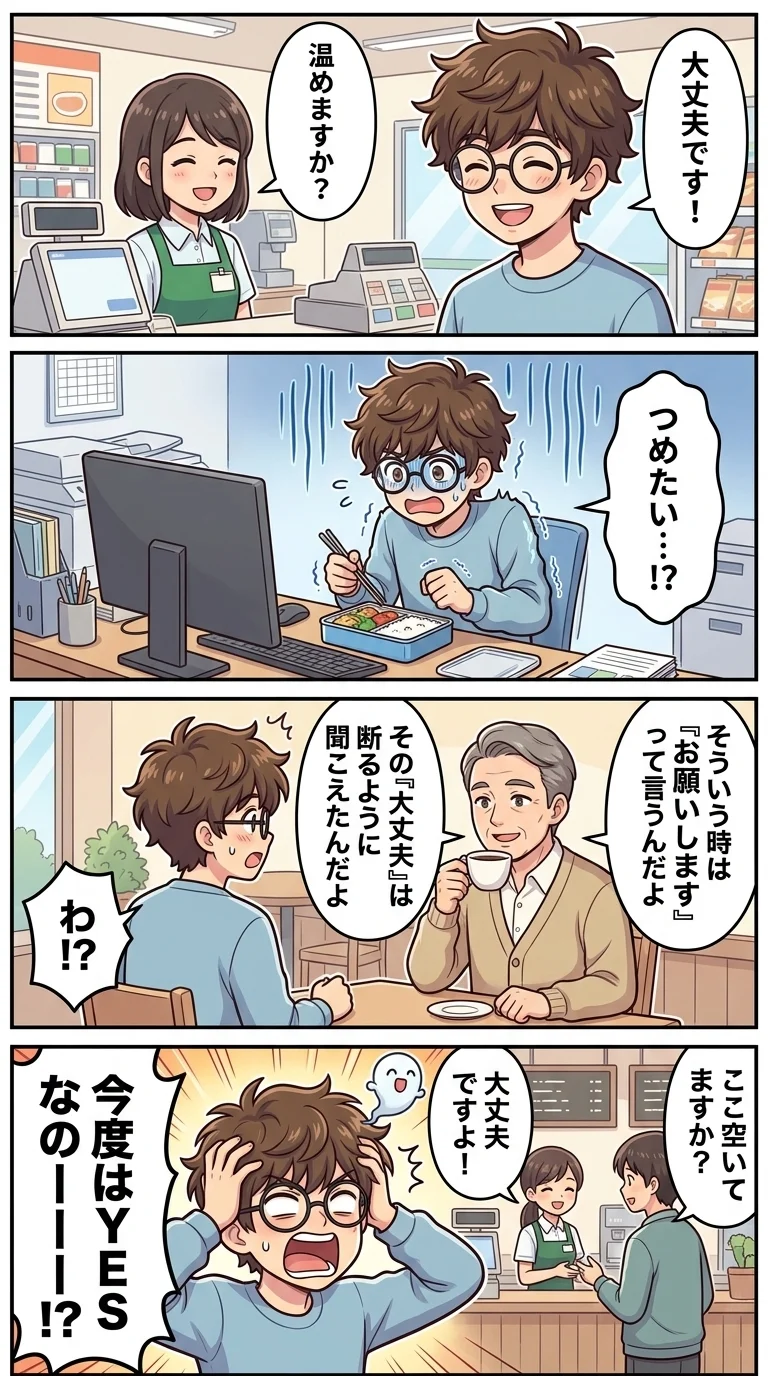
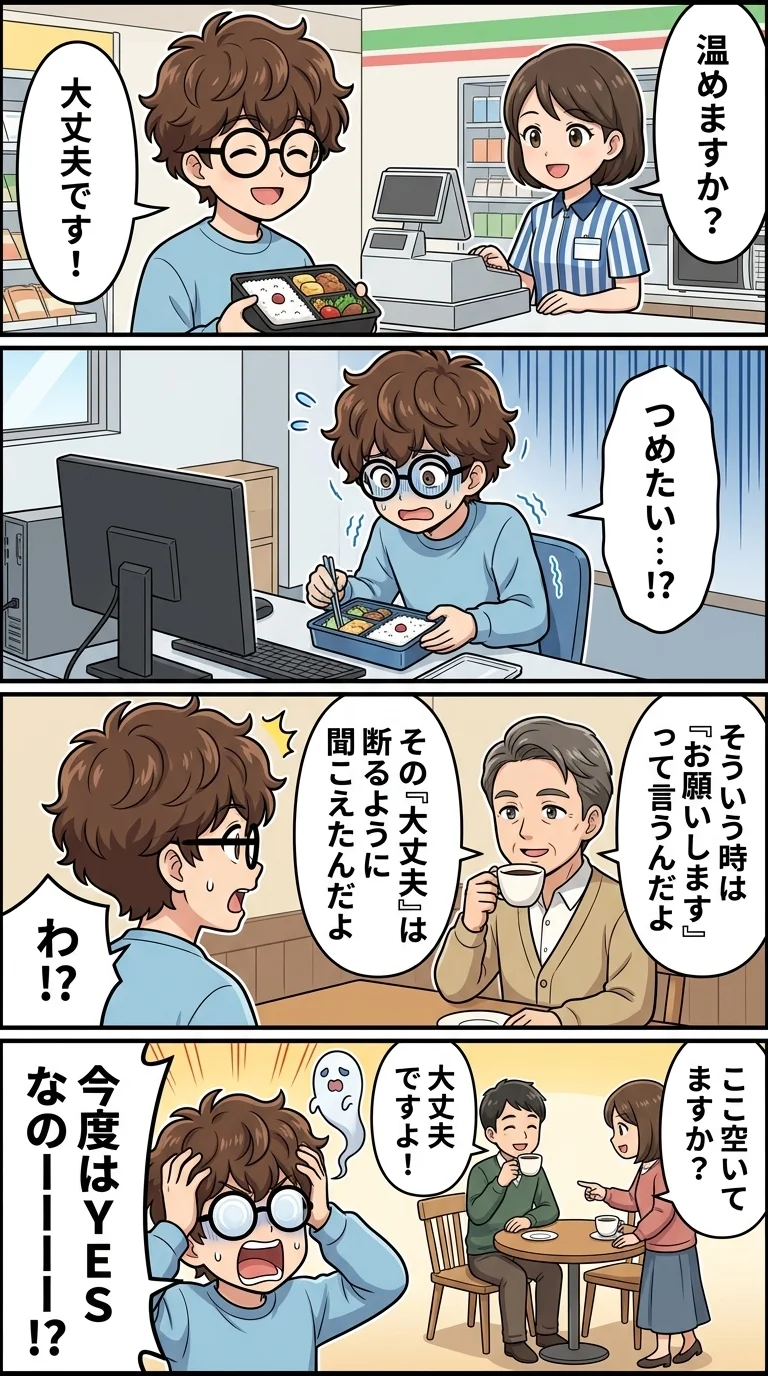
fix(manga): 4コマ漫画第1話の第1コマ発話者方向および第4コマ空席状況の修正

diff --git a/scripts/deployment/deploy_manga_v5.py b/scripts/deployment/deploy_manga_v5.py
@@ -5,7 +5,7 @@ import paramiko
 if sys.platform == 'win32':
     sys.stdout.reconfigure(encoding='utf-8', errors='replace')
 
-src = r"C:\Users\user\.gemini\antigravity-ide\brain\c8ff313e-4ec8-47e9-b866-72ee31d60fa5\manga_01_daijoubu_v7_1790551112689.jpg"
+src = r"C:\Users\user\.gemini\antigravity-ide\brain\c8ff313e-4ec8-47e9-b866-72ee31d60fa5\manga_01_daijoubu_v11_1790551689197.jpg"
 dst = "assets/images/posts/manga-01-daijoubu-trap.jpg"
 dst_webp = "assets/images/posts/manga-01-daijoubu-trap.webp"
 shutil.copy2(src, dst)
